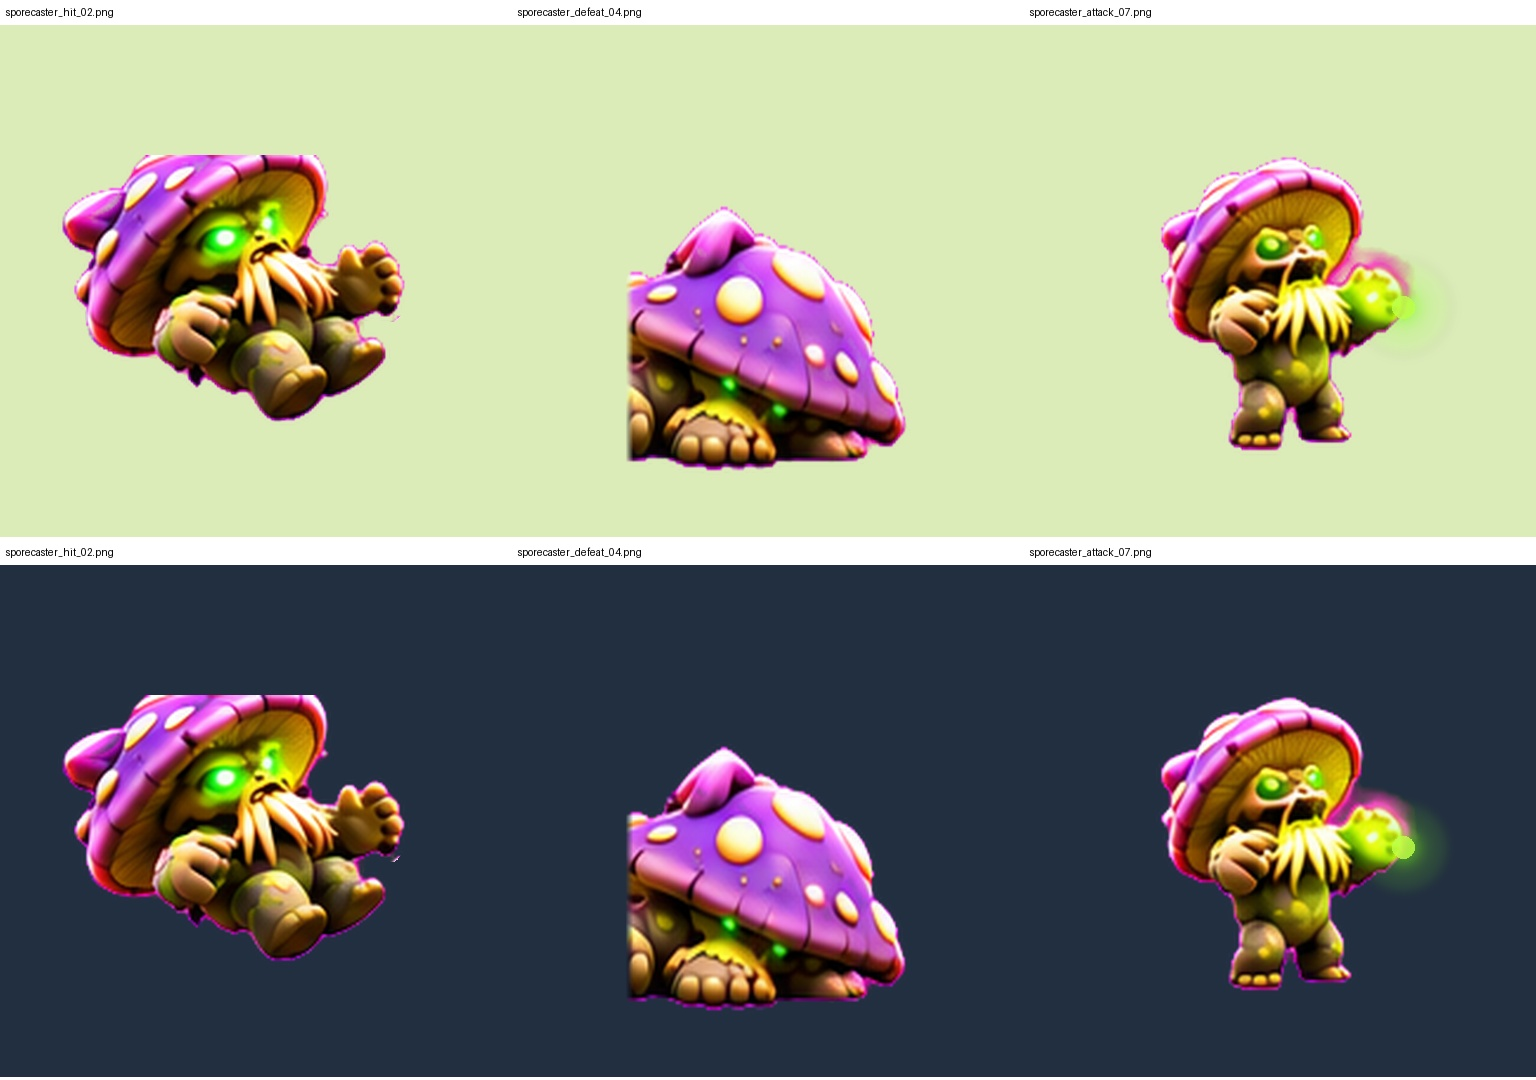
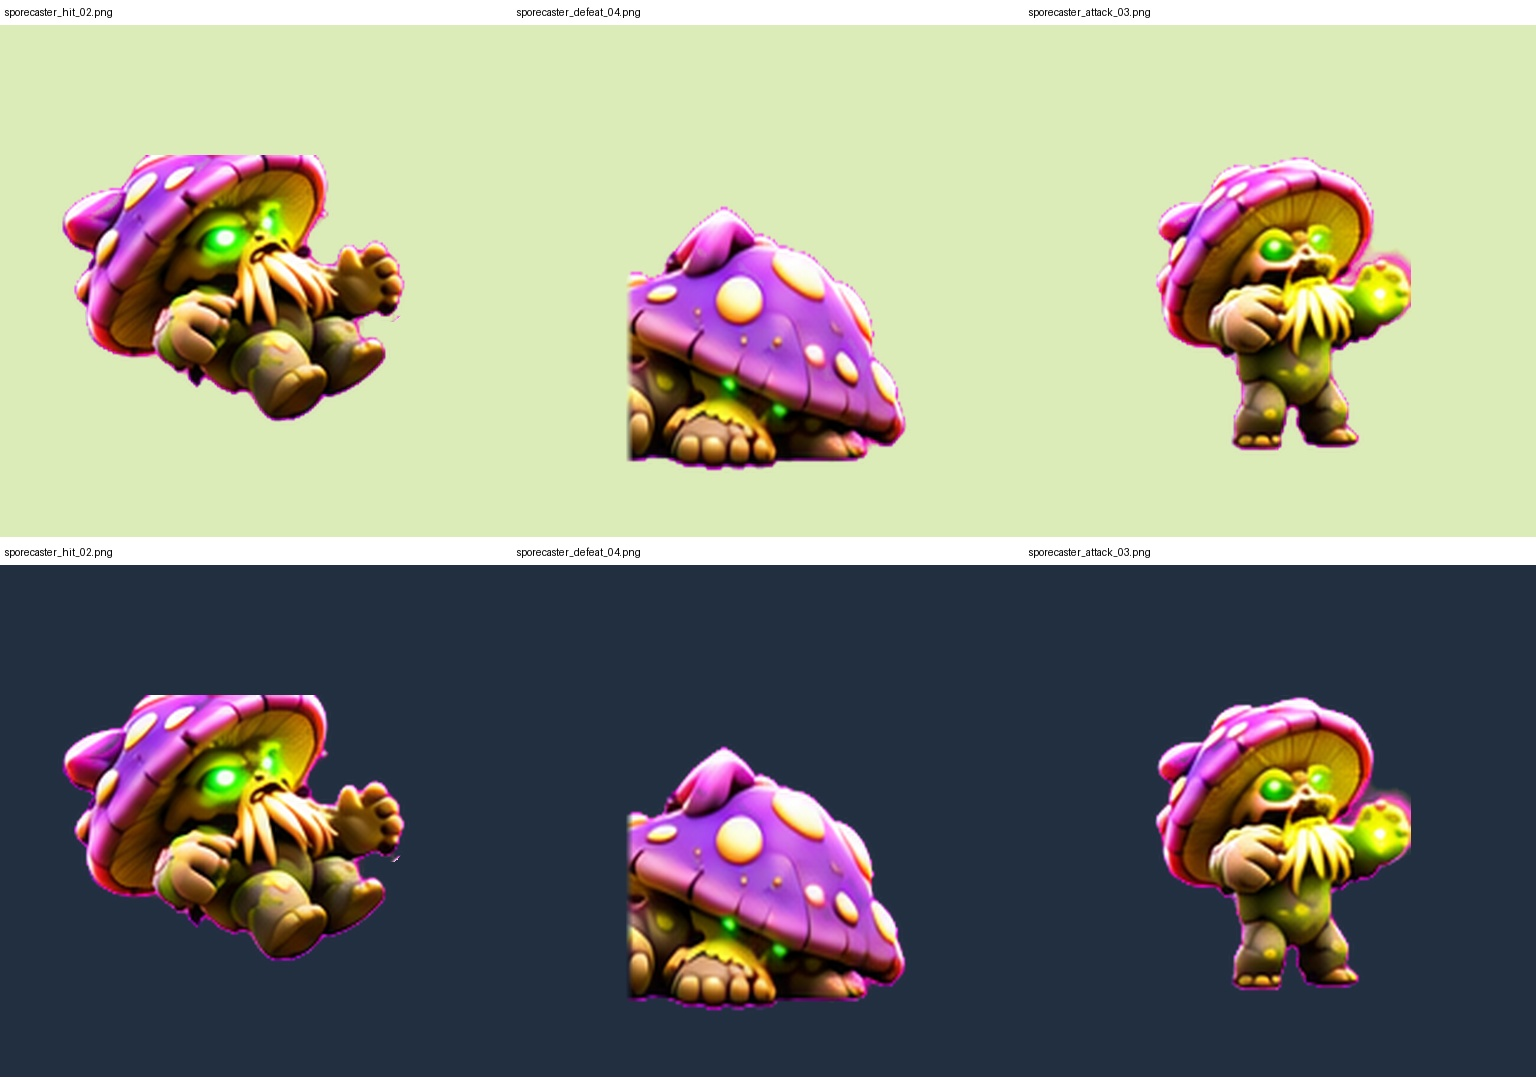
Pinpoint retained Sporecaster hand-effect and cap clipping in review evidence

diff --git a/scripts/audit_build339_animations.py b/scripts/audit_build339_animations.py
@@ -40,7 +40,7 @@ def audit():
     if len(records)!=400:raise ValueError('Expected exactly 400 animation frames')
     return {'frames':records,'total':400,'quarantined':sum(r['quarantined'] for r in records),
             'specter_review':'All 44 currently uploaded frames reviewed on light/dark backgrounds; no rectangular residue observed. Defeat alpha fade is intentional.',
-            'known_defects':{'sporecaster':'Replacement attack/hit frames retain hard horizontal clipping at y=130 and some rectangular FX residue; defeat_03 through defeat_05 still truncate the left silhouette. Entire affected clips remain quarantined.'},
+            'known_defects':{'sporecaster':'Replacement attack frames retain interior hand/effect clipping (notably 03) and rectangular FX residue; hit_00 through hit_03 retain cap clipping at y=130; defeat_03 through defeat_05 still truncate the left silhouette. Entire affected clips remain quarantined.'},
             'replacement_review':{'source_commits':['a872ce430dfae7ad87f9026a4a0d0c634ee35799','d72ea4efa5c8816ca61d1312a540f6949c930ba7'],
                 'rotbomber':'All 16 corrected hit/defeat frames pass visual transparency/edge inspection; independent reaction registration preserves body scale and ground contact.',
                 'sporecaster':'All 28 updated frames inspected; retained whole-clip restrictions because clipping/FX defects persist. Idle/run remain active.'},

diff --git a/docs/build339/replacements/REPORT.md b/docs/build339/replacements/REPORT.md
@@ -10,13 +10,13 @@ All 44 filenames match the originally requested replacement ranges. All are 512 
 | --- | --- | --- |
 | Rotbomber hit | 8 | Restore: gray rectangular backdrop removed; clean composited transparency and consistent body artwork |
 | Rotbomber defeat | 8 | Restore: gray rectangular backdrop removed; coherent collapse/smoke poses |
-| Sporecaster attack | 12 | Retain clip quarantine: hard cap clipping and rectangular FX remnants persist |
-| Sporecaster hit | 8 | Retain clip quarantine: cap is visibly truncated at the interior y=130 cut, especially frame 02 |
+| Sporecaster attack | 12 | Retain clip quarantine: interior hand/effect clipping, notably frame 03 and rectangular FX remnants persist |
+| Sporecaster hit | 8 | Retain clip quarantine: cap is visibly truncated at the interior y=130 cut in 00–03, especially frame 02 |
 | Sporecaster defeat | 8 | Retain clip quarantine: frames 03–05 still truncate the left silhouette at an interior vertical boundary |
 
 [All 16 Rotbomber replacements](rotbomber-uploaded.jpg), [all 28 Sporecaster replacements](sporecaster-uploaded.jpg), and [full-size defect examples on contrasting backgrounds](sporecaster-remaining-defects.jpg) were reviewed. These are source-art composites, not simulator captures. Transparent RGB values are assessed through alpha compositing, so invisible RGB noise is not mistaken for rendered background contamination.
 
-A transparent outer PNG border does not establish that the character inside that border is complete. The Sporecaster cuts occur inside the 512-pixel canvas, and the updated alpha mask cannot restore the lost subject pixels. Whole-clip quarantine avoids jumping between damaged poses; its clean idle/run and existing reaction fallbacks remain available. No partially approved Sporecaster sequence is enabled.
+A transparent outer PNG border does not establish that the character inside that border is complete. The Sporecaster cuts occur inside the 512-pixel canvas, and the updated alpha mask cannot restore the lost subject pixels. The 28-frame quarantine counts all frames in the three affected sequences; it does not assert that every individual frame has a visible defect. Whole-clip quarantine avoids jumping between damaged poses; its clean idle/run and existing reaction fallbacks remain available. No partially approved Sporecaster sequence is enabled.
 
 Rotbomber's repaired hit/defeat exports use a smaller body than its idle/run exports. The shared controller's profile now registers hit at 259 source-pixel body height/383 ground, and defeat at 258/383, preserving a 48-point initial visible body and the same world-space foot position. Existing attack registration remains 265/388. Body registration is fixed per sequence, not recomputed per frame. Mossbot, commanders, all combat values, movement, collision, camera and landscapes remain unchanged.
 
